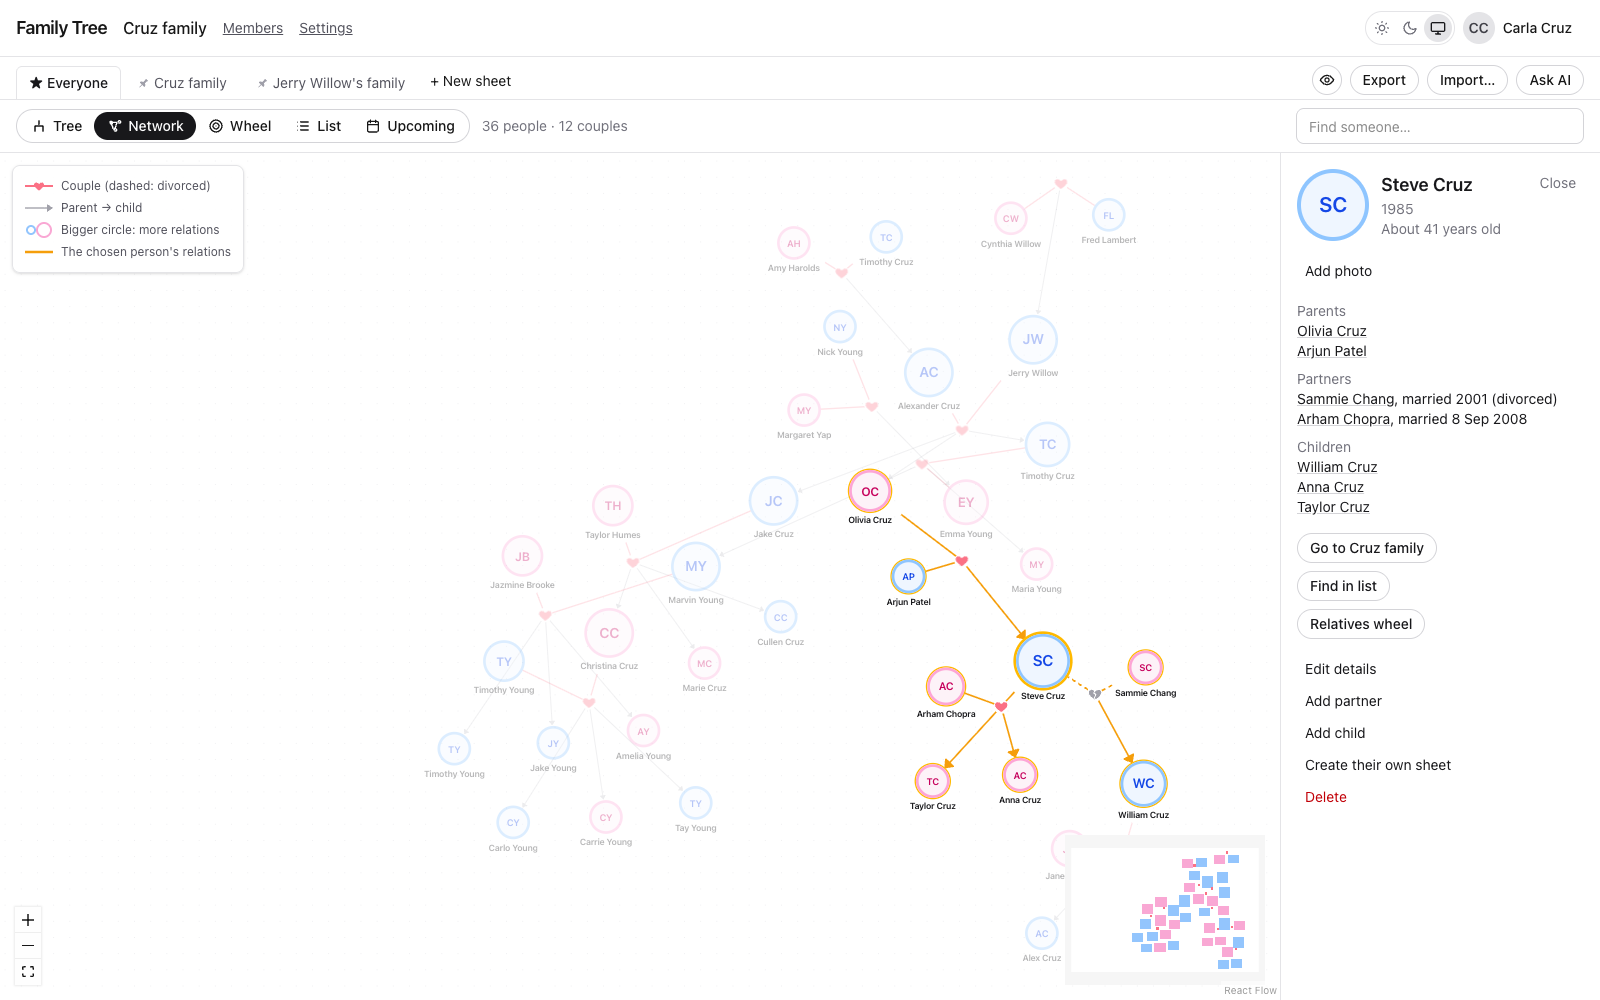
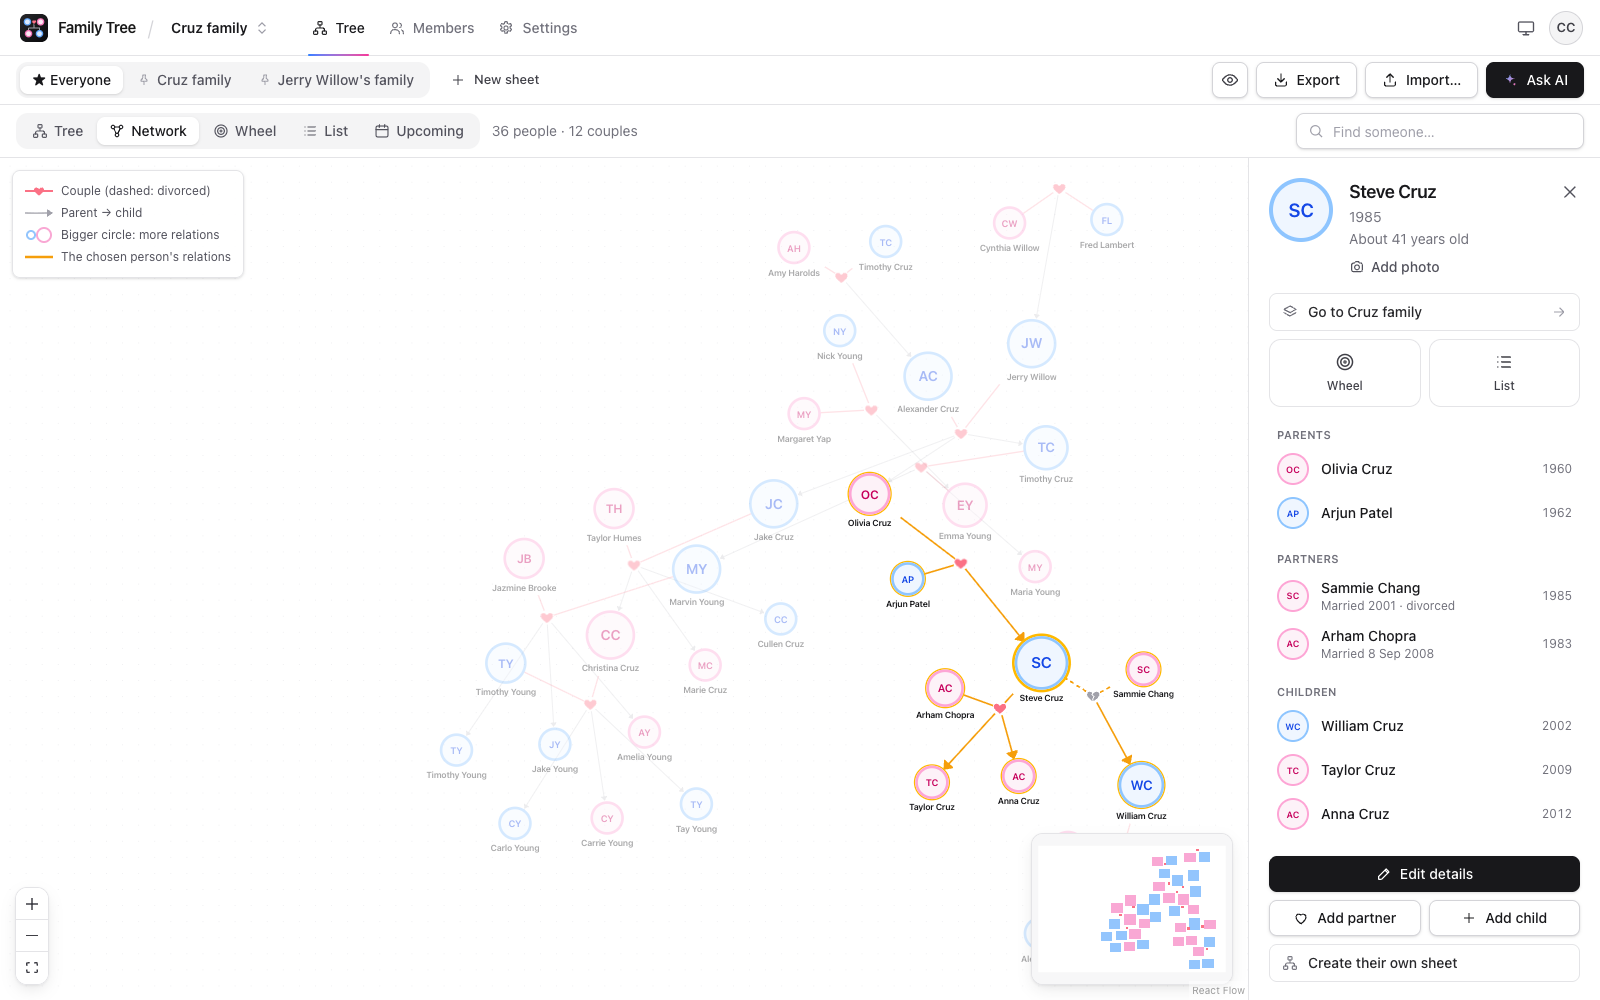
Production look, part 5: toasts, loading shapes, pictures; children eldest first
- Children eldest first (owner request): the person and couple panels
  list children by birth date, then those with no birth year A to Z,
  across all of a person's couples (eldestFirst in src/tree/years.ts)
- Toasts on the sheet page: "Saved." after a change, "<name>
  deleted." with Undo after a deletion, at the top of the tree
- Loading shapes for the sheet pages (TreeLoading) and the invite page
- Pictures taken again: the README copies, everyone-views.png, the
  landing page's pictures, the link preview and GitHub's social preview
  (npm run images)
- Tests: eldestFirst and the panel's order (unit: 502 passed); the
  toasts in the editing e2e test (e2e: 99 passed)
- Docs: BUILD_PLAN.md notes and Progress row; CLAUDE.md; ARCHITECTURE
  (§4); FEATURES.md decisions; PROJECT_GUIDE.md

diff --git a/src/app/g/[groupId]/s/GroupSheets.tsx b/src/app/g/[groupId]/s/GroupSheets.tsx
@@ -24,6 +24,7 @@ import { SheetTabs, sheetMenuHeading, sheetMenuItem } from "@/components/tree/ed
 import { HidePhotosButton } from "@/components/tree/HidePhotosButton";
 import { button } from "@/components/ui/button";
 import { GradientSparkle } from "@/components/ui/GradientSparkle";
+import { Toast, toastAction } from "@/components/ui/Toast";
 import { searchField, searchIcon } from "@/components/ui/field";
 import { LineIcon } from "@/components/ui/icons";
 import { CloudNameContext, PhotosHiddenContext } from "@/components/tree/photo";
@@ -38,6 +39,8 @@ import { applyChangesAction, signPhotoUploadAction } from "../actions";
 type Selection = { kind: "person" | "couple"; id: string } | null;
 
 const UNDO_SECONDS = 10;
+/** How long "Saved." stays. */
+const SAVED_SECONDS = 2.5;
 
 /** The ★ Everyone view last used in this browser. */
 const VIEW_KEY = "everyone-view";
@@ -107,6 +110,8 @@ export function GroupSheets({
   const kin = useMemo(() => (wheelShown && wheelCentre ? kinship(tree, wheelCentre) : null), [wheelShown, wheelCentre, tree]);
   const nameStyle = useNameStyle();
   const [deleted, setDeleted] = useState<Person | null>(null); // for Undo
+  const [saved, setSaved] = useState(0); // counts saves: each one shows "Saved." for its own moment
+  const [savedShown, setSavedShown] = useState(false);
   const [error, setError] = useState<string | null>(null);
   const [pending, startTransition] = useTransition();
   const [chatOpen, setChatOpen] = useState(false);
@@ -204,7 +209,11 @@ export function GroupSheets({
         if (result.error !== undefined) {
           setError(result.error);
           resolve(null);
-        } else resolve(result.idMap);
+        } else {
+          setSaved((n) => n + 1);
+          setSavedShown(true);
+          resolve(result.idMap);
+        }
       });
     });
 
@@ -219,6 +228,13 @@ export function GroupSheets({
     if (!deleted) return;
     if (await run(restorePersonOps(deleted.id))) setDeleted(null);
   }
+
+  // "Saved." after a change, for a moment (the production look). A deletion's toast, with Undo, replaces it.
+  useEffect(() => {
+    if (!savedShown) return;
+    const timer = setTimeout(() => setSavedShown(false), SAVED_SECONDS * 1000);
+    return () => clearTimeout(timer);
+  }, [saved, savedShown]);
 
   useEffect(() => {
     if (!deleted) return;
@@ -478,13 +494,20 @@ export function GroupSheets({
               <ChatWidget groupId={groupId} tree={tree} run={run} pending={pending} onClose={() => setChatOpen(false)} />
             </div>
           )}
-          {deleted && (
-            <div role="status" className="absolute bottom-4 left-4 z-20 flex items-center gap-3 rounded-lg bg-zinc-900 px-4 py-2 text-sm text-white shadow-lg dark:bg-white dark:text-zinc-900">
+          {deleted ? (
+            <Toast className="absolute inset-x-0 top-3 z-30">
               <span>{deleted.name} deleted.</span>
-              <button type="button" onClick={undoDelete} disabled={pending} className="font-semibold underline">
+              <button type="button" onClick={undoDelete} disabled={pending} className={toastAction}>
                 Undo
               </button>
-            </div>
+            </Toast>
+          ) : (
+            savedShown && (
+              <Toast className="absolute inset-x-0 top-3 z-30">
+                <LineIcon name="check" className="size-4" />
+                Saved.
+              </Toast>
+            )
           )}
         </div>
         {/* Covers the page while the picture is made in day colours, so night mode doesn't flash. */}

diff --git a/src/components/tree/edit/PersonPanel.test.tsx b/src/components/tree/edit/PersonPanel.test.tsx
@@ -319,6 +319,30 @@ describe("marriage dates on the partner lines (owner request)", () => {
   });
 });
 
+describe("children eldest first (owner request)", () => {
+  test("across both couples, by birth date; those with no birth year after them, A to Z", () => {
+    const family: GroupTree = {
+      persons: [
+        { id: "mo", name: "Mo Rao", gender: "male" },
+        { id: "ann", name: "Ann Rao", gender: "female" },
+        { id: "bea", name: "Bea Rao", gender: "female" },
+        { id: "kid1", name: "Zara Rao", gender: "female", birthYear: 2001 },
+        { id: "kid2", name: "Yash Rao", gender: "male" },
+        { id: "kid3", name: "Arun Rao", gender: "male", birthYear: 1998, birthMonth: 5, birthDay: 2 },
+        { id: "kid4", name: "Bina Rao", gender: "female" },
+      ],
+      unions: [
+        { id: "u1", partnerIds: ["mo", "ann"], status: "divorced", childIds: ["kid1", "kid2"] },
+        { id: "u2", partnerIds: ["mo", "bea"], status: "married", childIds: ["kid3", "kid4"] },
+      ],
+      sheets: [{ id: "tab", title: "Raos", rootPersonId: "mo", extraPersonIds: [], pinned: true, order: 0 }],
+    };
+    render(<PersonPanel person={family.persons[0]} tree={family} canEdit={false} pending={false} run={vi.fn()} onSelect={() => {}} onClose={() => {}} onDelete={() => {}} currentSheetId="tab" onOpenSheet={() => {}} />);
+    const children = within(screen.getByText("Children").nextElementSibling as HTMLElement).getAllByRole("button");
+    expect(children.map(named)).toEqual(["Arun Rao, 1998", "Zara Rao, 2001", "Bina Rao", "Yash Rao"]);
+  });
+});
+
 describe("an age in the panel (birthdays and anniversaries, owner request)", () => {
   test("on the device's day: exact with a full birth date, about with a year, at death", () => {
     vi.useFakeTimers({ toFake: ["Date"] });

diff --git a/src/tree/years.test.ts b/src/tree/years.test.ts
@@ -1,5 +1,5 @@
 import { describe, expect, test } from "vitest";
-import { birthOrder, datesProblem, formatDate, formatLife, formatMarriage, formatYears, isRealDate, lifeDates, marriageDate, marriageOrder, marriageProblem } from "./years";
+import { birthOrder, datesProblem, eldestFirst, formatDate, formatLife, formatMarriage, formatYears, isRealDate, lifeDates, marriageDate, marriageOrder, marriageProblem } from "./years";
 
 describe("formatYears", () => {
   test("living person shows only the birth year, never 'Present'", () => {
@@ -43,6 +43,19 @@ describe("full dates (owner request)", () => {
   test("ordering by birth: a year alone before that year's dated days; nothing without a year", () => {
     const order = [{ birthYear: 1985, birthMonth: 3, birthDay: 12 }, { birthYear: 1985 }, { birthYear: 1984, birthMonth: 12, birthDay: 31 }, {}].map(birthOrder);
     expect(order).toEqual([19850312, 19850000, 19841231, undefined]);
+  });
+
+  test("children eldest first (an owner request): by birth date, a year alone before that year's dated days; then no birth year, A to Z", () => {
+    const children = [
+      { name: "Zoe", birthYear: 1990 },
+      { name: "Bo" },
+      { name: "Amy" },
+      { name: "Cal", birthYear: 1985, birthMonth: 3, birthDay: 12 },
+      { name: "Dev", birthYear: 1985 },
+      { name: "Eli", birthYear: 1985, birthMonth: 3, birthDay: 12 },
+    ];
+    expect(eldestFirst(children).map((c) => c.name)).toEqual(["Dev", "Cal", "Eli", "Zoe", "Amy", "Bo"]);
+    expect(children[0].name).toBe("Zoe"); // a new array
   });
 
   test("the date fields that are set", () => {

diff --git a/src/components/tree/edit/PersonPanel.tsx b/src/components/tree/edit/PersonPanel.tsx
@@ -7,7 +7,7 @@ import { EVERYONE } from "@/tree/everyone";
 import { buildSheetView, showsNewParentsOf } from "@/tree/sheet-view";
 import type { Gender, GroupTree, Person, Union } from "@/tree/types";
 import { ageText } from "@/tree/upcoming";
-import { formatLife, formatMarriage, formatYears } from "@/tree/years";
+import { eldestFirst, formatLife, formatMarriage, formatYears } from "@/tree/years";
 import { useToday } from "../../today";
 import { button, iconButton } from "../../ui/button";
 import { choice, choiceLabel, field, fieldLabel, formError as formErrorClass } from "../../ui/field";
@@ -300,7 +300,11 @@ export function PersonPanel({
               <section>
                 <h3 className={panelHeading}>Children</h3>
                 {couples.some((c) => c.children.length) ? (
-                  <ul>{couples.flatMap((c) => c.children.map((p) => <Relative key={p.id} p={p} onSelect={onSelect} />))}</ul>
+                  <ul>
+                    {eldestFirst(couples.flatMap((c) => c.children)).map((p) => (
+                      <Relative key={p.id} p={p} onSelect={onSelect} />
+                    ))}
+                  </ul>
                 ) : (
                   <p className={panelNote}>None</p>
                 )}

diff --git a/src/components/ui/Skeleton.tsx b/src/components/ui/Skeleton.tsx
@@ -19,3 +19,29 @@ export function LoadingPage({ className, children }: { className: string; childr
     </div>
   );
 }
+
+/** The sheet page's shape while it loads: the header, the sheet row, and a few cards where the tree goes. */
+export function TreeLoading() {
+  const card = `${skeleton} size-14 rounded-full`;
+  return (
+    <div className="flex h-dvh flex-col bg-white dark:bg-zinc-950">
+      <div className="h-14 shrink-0 border-b border-zinc-200 dark:border-zinc-800" />
+      <div className="flex h-12 shrink-0 items-center gap-2 border-b border-zinc-200 px-4 dark:border-zinc-800">
+        <div className={`${skeleton} h-8 w-72 max-w-[60%] rounded-xl`} />
+        <div className={`${skeleton} ml-auto h-8 w-24 rounded-lg`} />
+      </div>
+      <main aria-busy="true" className="flex flex-1 flex-col items-center justify-center gap-12">
+        <span className="sr-only">Loading…</span>
+        <div className="flex gap-16">
+          <div className={card} />
+          <div className={card} />
+        </div>
+        <div className="flex gap-16">
+          <div className={card} />
+          <div className={card} />
+          <div className={card} />
+        </div>
+      </main>
+    </div>
+  );
+}

diff --git a/src/components/ui/Toast.tsx b/src/components/ui/Toast.tsx
@@ -1,0 +1,25 @@
+"use client";
+
+import type { ReactNode } from "react";
+
+/**
+ * A short message that floats in and goes (the production look): "Saved.", "Jake Cruz deleted." with
+ * Undo. A status, so screen readers say it; placed by its parent (`className`), it slides in unless the
+ * device asks for less motion.
+ */
+export function Toast({ children, className = "" }: { children: ReactNode; className?: string }) {
+  return (
+    <div className={`pointer-events-none flex justify-center ${className}`}>
+      <div
+        role="status"
+        className="pointer-events-auto flex animate-menu-in items-center gap-3 rounded-xl bg-zinc-900 px-4 py-2.5 text-sm text-white shadow-lg shadow-zinc-900/20 motion-reduce:animate-none dark:bg-white dark:text-zinc-900 dark:shadow-black/40"
+      >
+        {children}
+      </div>
+    </div>
+  );
+}
+
+/** A toast's action (Undo): light on the dark toast. */
+export const toastAction =
+  "rounded-md px-1.5 py-0.5 font-semibold text-sky-300 outline-none hover:bg-white/10 focus-visible:ring-2 focus-visible:ring-sky-300 disabled:opacity-60 pointer-coarse:min-h-11 dark:text-sky-700 dark:hover:bg-zinc-900/10 dark:focus-visible:ring-sky-700";

diff --git a/src/app/invite/[token]/page.tsx b/src/app/invite/[token]/page.tsx
@@ -5,6 +5,7 @@ import { redirect } from "next/navigation";
 import { AppHeader } from "@/components/AppHeader";
 import { button } from "@/components/ui/button";
 import { MessagePage, MessageText } from "@/components/ui/MessagePage";
+import { LoadingPage, skeleton } from "@/components/ui/Skeleton";
 import { getDatabase } from "@/server/db";
 import { maskEmail, normalizeEmail, ROLE_LABELS } from "@/server/members-rules";
 import { requireUser } from "@/server/permissions";
@@ -19,7 +20,13 @@ export const metadata: Metadata = { title: "Invite · Family Tree" };
 /** F3: an invite link. Signed-out visitors sign in first and come back here (src/proxy.ts). */
 export default function InvitePage({ params }: PageProps<"/invite/[token]">) {
   return (
-    <Suspense fallback={<p className="p-6 text-sm text-zinc-500 dark:text-zinc-400">Opening the invite…</p>}>
+    <Suspense
+      fallback={
+        <LoadingPage className="flex flex-1 items-center justify-center px-4 py-12 sm:py-20">
+          <div className={`${skeleton} h-72 w-full max-w-md rounded-2xl`} />
+        </LoadingPage>
+      }
+    >
       <Invite params={params} />
     </Suspense>
   );

diff --git a/e2e/editing.spec.ts b/e2e/editing.spec.ts
@@ -242,11 +242,14 @@ test("edit details, delete with Undo, and a sheet's root can't be deleted", asyn
   await form(page, "Edit details").getByRole("spinbutton", { name: "Death year" }).fill("2024");
   await form(page, "Edit details").getByRole("button", { name: "Save" }).click();
   await expect(card(page, "Taylor Humes")).toHaveAccessibleName("Taylor Humes, 1955 – 2024");
+  await expect(page.getByRole("status").filter({ hasText: "Saved." })).toBeVisible(); // a toast (the production look)
+  await page.screenshot({ path: "test-results/screenshots/saved-toast.png", animations: "disabled" });
 
   await card(page, "Alex Cruz").click();
   await personPanel(page).getByRole("button", { name: "Delete" }).click();
   await expect(cards(page)).toHaveCount(35);
   await expect(page.getByRole("status").filter({ hasText: "Alex Cruz deleted." })).toBeVisible();
+  await expect(page.getByRole("status").filter({ hasText: "Saved." })).toHaveCount(0); // replaced by the deletion's
   await page.getByRole("button", { name: "Undo" }).click();
   await expect(cards(page)).toHaveCount(36);
   await expect(card(page, "Alex Cruz")).toBeVisible();

diff --git a/src/tree/years.ts b/src/tree/years.ts
@@ -78,6 +78,19 @@ const dateKey = (year: number, month?: number, day?: number) => year * 10000 + (
 /** For ordering by birth: eldest first. Undefined with no birth year. */
 export const birthOrder = (p: LifeDates): number | undefined => (p.birthYear === undefined ? undefined : dateKey(p.birthYear, p.birthMonth, p.birthDay));
 
+/**
+ * Children as the panels list them (an owner request): eldest first by birth date, then those with no
+ * birth year, A to Z. A new array.
+ */
+export function eldestFirst<P extends LifeDates & { name: string }>(people: P[]): P[] {
+  return [...people].sort((a, b) => {
+    const [x, y] = [birthOrder(a), birthOrder(b)];
+    if (x !== undefined && y !== undefined && x !== y) return x - y;
+    if ((x === undefined) !== (y === undefined)) return x === undefined ? 1 : -1;
+    return a.name.localeCompare(b.name);
+  });
+}
+
 /** For ordering by marriage: earliest first. Undefined with no marriage year. */
 export const marriageOrder = (u: MarriageDate): number | undefined => (u.marriageYear === undefined ? undefined : dateKey(u.marriageYear, u.marriageMonth, u.marriageDay));
 

diff --git a/src/components/tree/edit/CouplePanel.tsx b/src/components/tree/edit/CouplePanel.tsx
@@ -3,7 +3,7 @@
 import { useState, type FormEvent } from "react";
 import { addChildOps, coupleStatusOps, marriageDateOps } from "@/tree/edits";
 import type { Union } from "@/tree/types";
-import { formatMarriage } from "@/tree/years";
+import { eldestFirst, formatMarriage } from "@/tree/years";
 import { button, iconButton } from "../../ui/button";
 import { formError as formErrorClass } from "../../ui/field";
 import { LineIcon } from "../../ui/icons";
@@ -28,7 +28,7 @@ export function CouplePanel({ union, tree, canEdit, pending, run, onSelect, onCl
   const married = formatMarriage(union);
   const byId = new Map(tree.persons.map((p) => [p.id, p]));
   const partners = union.partnerIds.flatMap((id) => byId.get(id) ?? []);
-  const children = union.childIds.flatMap((id) => byId.get(id) ?? []);
+  const children = eldestFirst(union.childIds.flatMap((id) => byId.get(id) ?? []));
 
   async function addChild(event: FormEvent<HTMLFormElement>) {
     event.preventDefault();

diff --git a/src/app/g/[groupId]/page.tsx b/src/app/g/[groupId]/page.tsx
@@ -3,6 +3,7 @@ import { redirect } from "next/navigation";
 import { AppHeader } from "@/components/AppHeader";
 import { GroupHeader } from "@/components/GroupHeader";
 import { NoAccess } from "@/components/NoAccess";
+import { TreeLoading } from "@/components/ui/Skeleton";
 import { getDatabase } from "@/server/db";
 import { noAccessToNull, requireRole, requireUser } from "@/server/permissions";
 import { firstSheetId } from "@/server/repositories/groups";
@@ -10,7 +11,7 @@ import { firstSheetId } from "@/server/repositories/groups";
 /** A group link opens its first pinned sheet. */
 export default function GroupPage({ params }: PageProps<"/g/[groupId]">) {
   return (
-    <Suspense fallback={<p className="p-6 text-sm text-zinc-500 dark:text-zinc-400">Opening the tree…</p>}>
+    <Suspense fallback={<TreeLoading />}>
       <OpenGroup params={params} />
     </Suspense>
   );

diff --git a/src/app/g/[groupId]/s/layout.tsx b/src/app/g/[groupId]/s/layout.tsx
@@ -2,6 +2,7 @@ import { Suspense } from "react";
 import { AppHeader } from "@/components/AppHeader";
 import { GroupHeader } from "@/components/GroupHeader";
 import { NoAccess } from "@/components/NoAccess";
+import { TreeLoading } from "@/components/ui/Skeleton";
 import { chatConfig } from "@/server/ai/config";
 import { cloudinaryConfig } from "@/server/cloudinary";
 import { getDatabase } from "@/server/db";
@@ -17,7 +18,7 @@ import { GroupSheets } from "./GroupSheets";
  */
 export default function SheetsLayout({ params, children }: LayoutProps<"/g/[groupId]/s">) {
   return (
-    <Suspense fallback={<p className="p-6 text-sm text-zinc-500 dark:text-zinc-400">Loading the tree…</p>}>
+    <Suspense fallback={<TreeLoading />}>
       <GroupSheetsLoader params={params} />
       {children}
     </Suspense>
